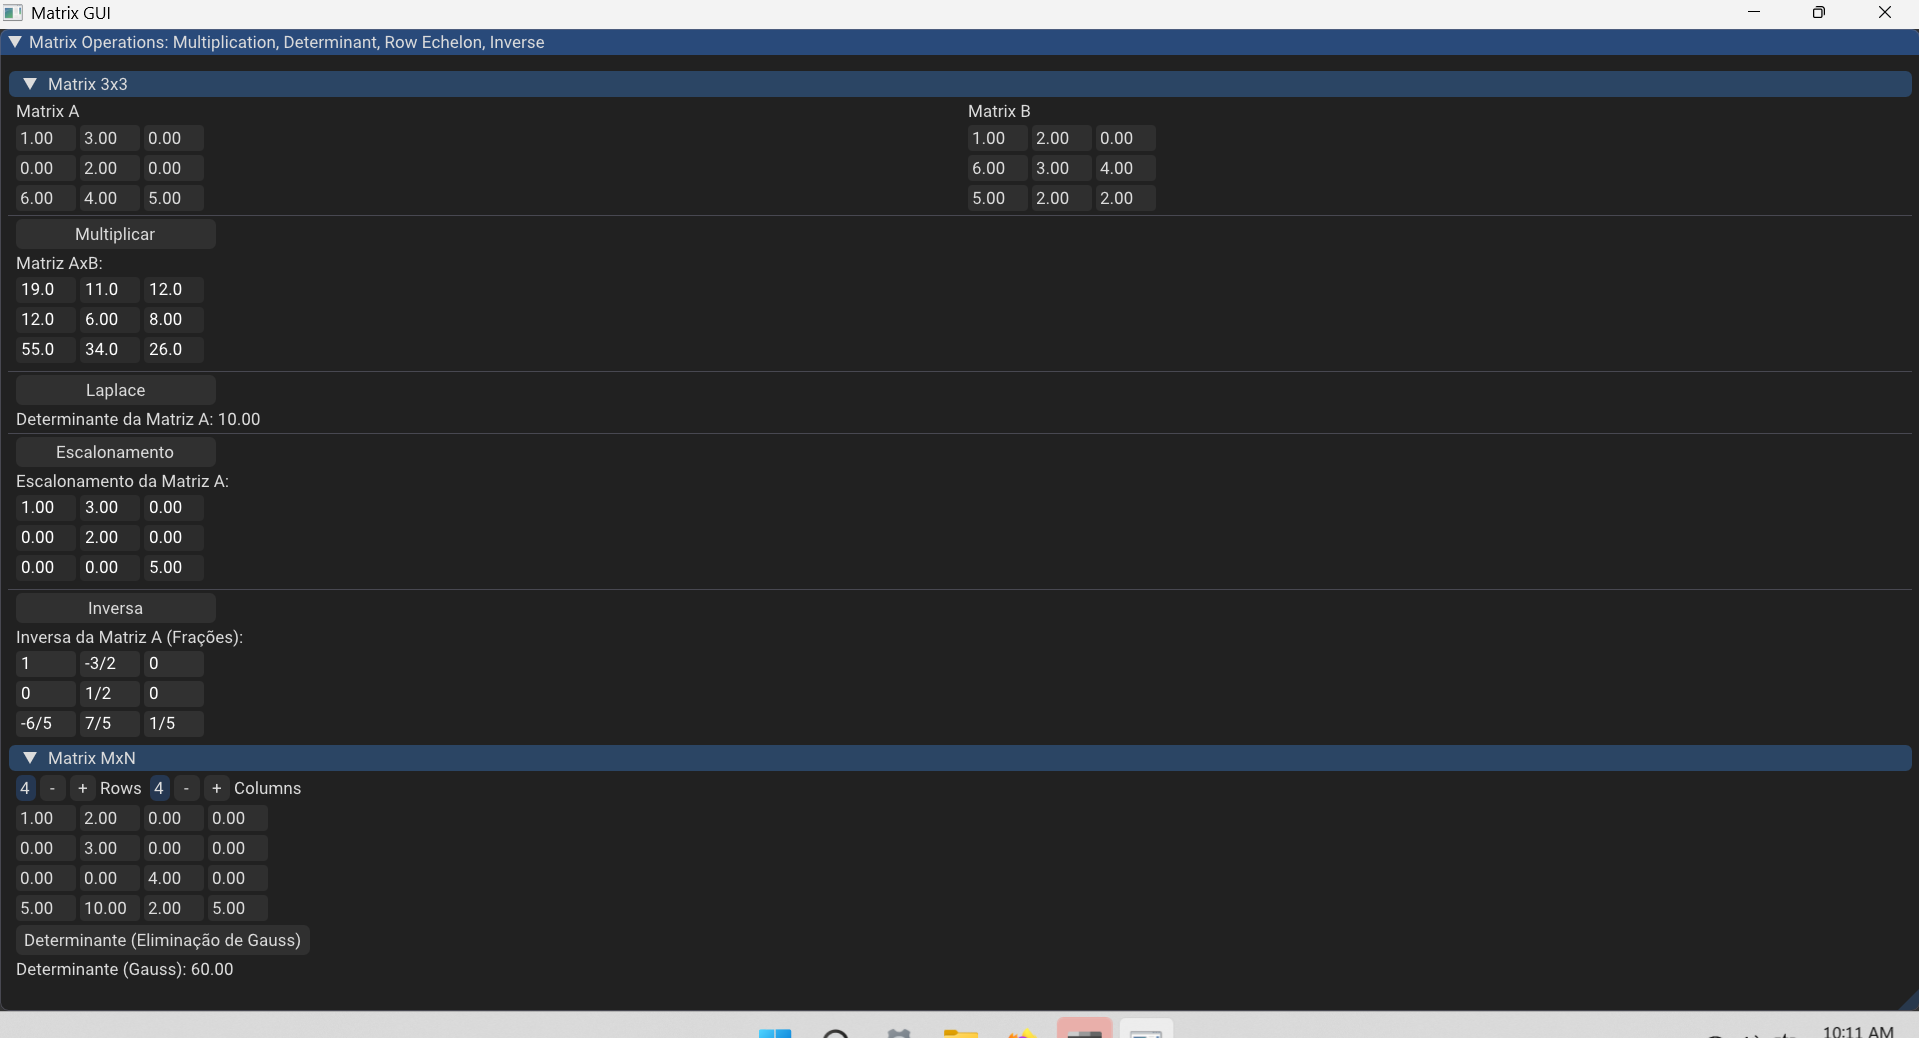
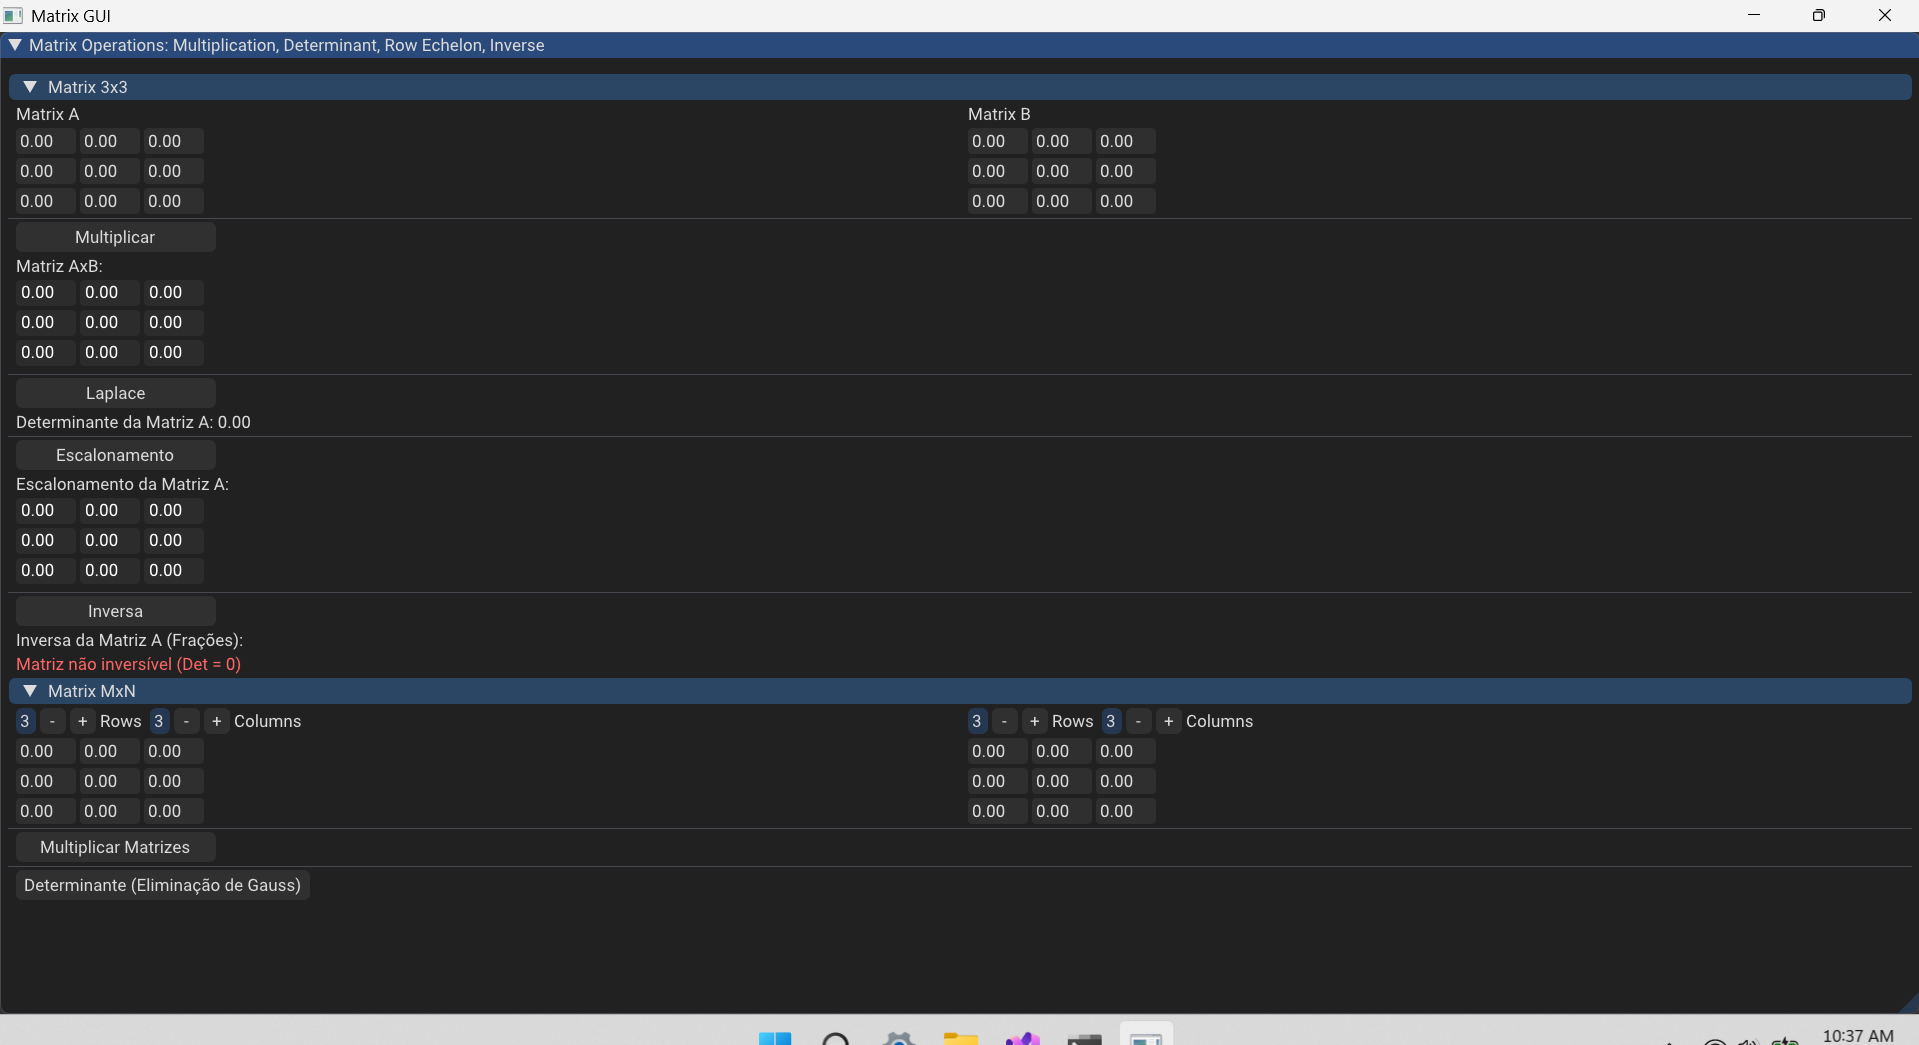
add mxn multiplication

diff --git a/WalnutApp/src/WalnutApp.cpp b/WalnutApp/src/WalnutApp.cpp
@@ -156,10 +156,16 @@ public:
 		// Matriz MxN 
 		if (ImGui::CollapsingHeader("Matrix MxN"))
 		{
+			ImGui::Columns(2, "MxNInputs", false);
+
 			static int rows = 3, cols = 3;
 			static std::vector<std::vector<float>> matMN(rows, std::vector<float>(cols, 0.0f));
 			static float detMN = 0.0f;
-			static bool hasDetMN = false;
+			static bool hasDetMN = true;
+			static bool detComputed = false;
+
+			static bool multiplicationValid = true;
+			static std::vector<std::vector<float>> matMN3;
 
 			int prevRows = rows, prevCols = cols;
 			ImGui::SetNextItemWidth(80); ImGui::InputInt("Rows##mn", &rows);
@@ -169,14 +175,64 @@ public:
 			if (rows < 1) rows = 1; if (cols < 1) cols = 1;
 			if (rows != prevRows || cols != prevCols) {
 				matMN.assign(rows, std::vector<float>(cols, 0.0f));
-				hasDetMN = false;
+				matMN3.clear();
+				multiplicationValid = true;
+				hasDetMN = true;
+				detComputed = false;
 			}
 			
 			DrawMatrixInput("MN", matMN, rows, cols);
 
-			if (rows == cols)
+			// Second matrix MxN
+
+			ImGui::NextColumn();
+
+			static int rows2 = 3, cols2 = 3;
+			static std::vector<std::vector<float>> matMN2(rows2, std::vector<float>(cols2, 0.0f));
+
+			int prevRows2 = rows2, prevCols2 = cols2;
+			ImGui::SetNextItemWidth(80); ImGui::InputInt("Rows##mn2", &rows2);
+			ImGui::SameLine();
+			ImGui::SetNextItemWidth(80); ImGui::InputInt("Columns##mn2", &cols2);
+
+			if (rows2 < 1) rows2 = 1; if (cols2 < 1) cols2 = 1;
+			if (rows2 != prevRows2 || cols2 != prevCols2) {
+				matMN2.assign(rows2, std::vector<float>(cols2, 0.0f));
+				matMN3.clear();
+				multiplicationValid = true;
+			}
+
+			DrawMatrixInput("MN2", matMN2, rows2, cols2);
+
+			// Multiplication MxN
+
+			ImGui::Columns(1);
+			ImGui::Separator();
+
+			if (ImGui::Button("Multiplicar Matrizes##mn", ImVec2(200, 30)))
 			{
-				if (ImGui::Button("Determinante (Eliminação de Gauss)##mn", ImVec2(ImGui::CalcTextSize("Determinante (Eliminação de Gauss)").x + 16, 30)))
+				try {
+					matMN3 = multiplyMatrices(matMN, matMN2);
+					multiplicationValid = true;
+				}
+				catch (const std::exception& e) {
+					multiplicationValid = false;
+				}
+			}
+			if (multiplicationValid)
+			{
+				DrawMatrixResult("matMN3", matMN3);
+			}
+			else {
+				ImGui::TextDisabled("Multiplicação inválida: Colunas da Matriz A devem ser iguais às Linhas da Matriz B.");
+			}
+
+			ImGui::Columns(1);
+			ImGui::Separator();
+
+			if (ImGui::Button("Determinante (Eliminação de Gauss)##mn", ImVec2(ImGui::CalcTextSize("Determinante (Eliminação de Gauss)").x + 16, 30)))
+			{
+				if (rows == cols)
 				{
 					int n = rows;
 					std::vector<std::vector<float>> mat(n, std::vector<float>(n));
@@ -187,18 +243,26 @@ public:
 					try {
 						detMN = (float)determinant(mat);
 						hasDetMN = true;
+						detComputed = true;
 					}
 					catch (const std::exception& e) {
 						hasDetMN = false;
+						detComputed = false;
 					}
 				}
-				if (hasDetMN) {
-					ImGui::Text("Determinante (Gauss): %.2f", detMN);
+				else
+				{
+					hasDetMN = false;
+					detComputed = false;
 				}
 			}
-			else
-			{
+
+			if (!hasDetMN) {
 				ImGui::TextDisabled("Determinante: Apenas para matrizes quadradas.");
+			}
+			else if (detComputed)
+			{
+				ImGui::Text("Determinante (Gauss): %.2f", detMN);
 			}
 		}
 

diff --git a/WalnutApp/src/algoritmos.h b/WalnutApp/src/algoritmos.h
@@ -53,3 +53,33 @@ float determinant(std::vector<std::vector<float>> mat) {
 
 	return det;
 }
+
+// Mutiplication MxN Matrices
+
+std::vector <std::vector<float>> multiplyMatrices(const std::vector<std::vector<float>>& A, const std::vector<std::vector<float>>& B) {
+	bool valid = true;
+
+	int m1 = A.size();    // lines
+	int n1 = A[0].size(); // columns
+
+	int m2 = B.size();
+	int n2 = B[0].size();
+
+	if (n1 != m2) {
+		valid = false;
+		throw std::invalid_argument("The number of columns of the first matrix must be equal to the number of lines of the second matrix.");
+	}
+
+	std::vector <std::vector<float>> C(m1, std::vector<float>(n2, 0));
+
+	for (int linA = 0; linA < m1; linA++) {
+		for (int colB = 0; colB < n2; colB++) {
+			for (int k = 0; k < n1; k++) {       // k == colA or linB
+				C[linA][colB] += A[linA][k] * B[k][colB];
+			}
+		}
+	}
+
+	return C;
+
+}
